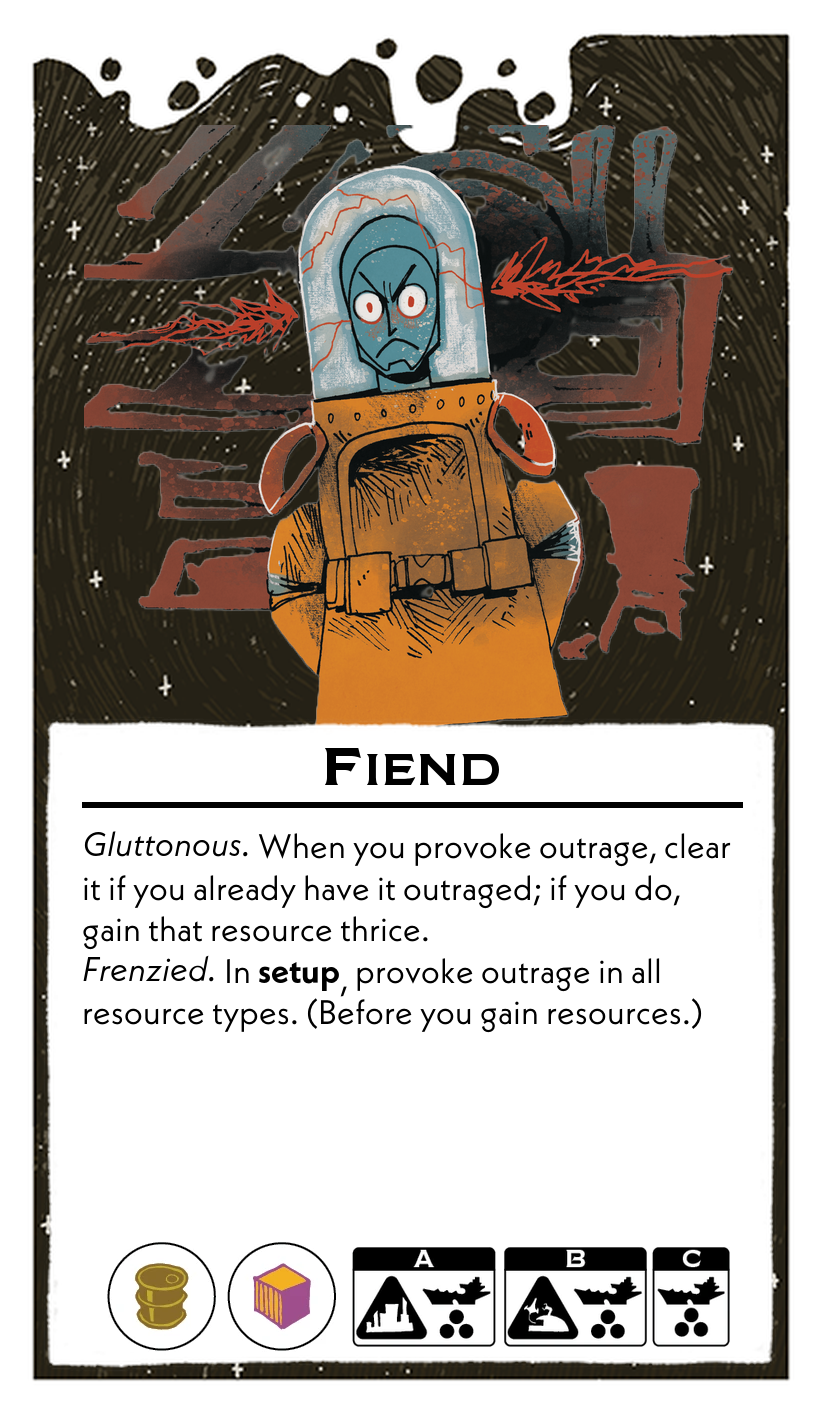
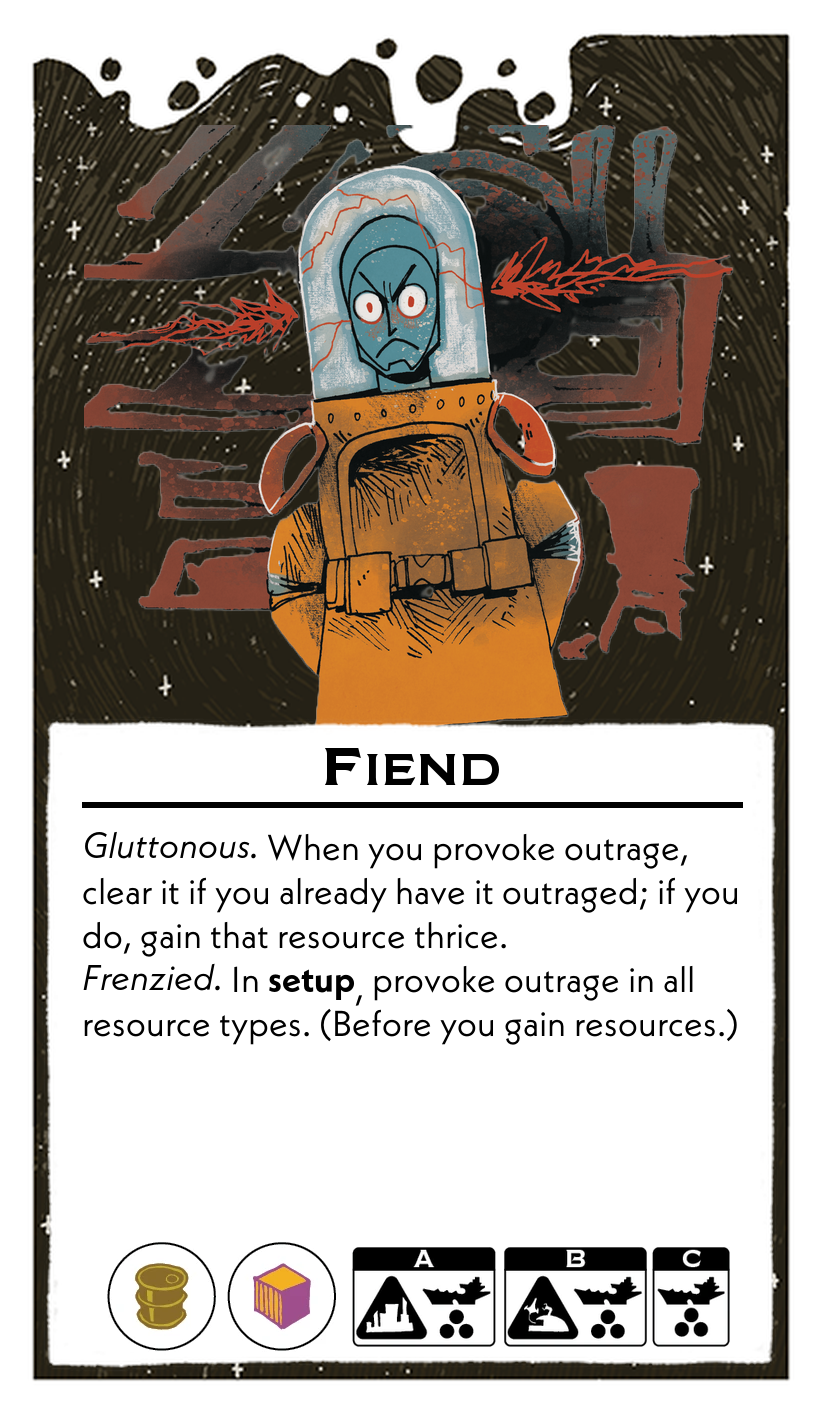
simplifiy leaders

Changed region(s): [[0.0912, 0.5912, 0.9124, 0.7468]]

diff --git a/scripts/leadersFormatted.py b/scripts/leadersFormatted.py
@@ -183,7 +183,7 @@ leaders = [
             "B": {"ships": 3, "building": "city"},
             "C": {"ships": 2, "building": "None"}
         },
-        "body_font_size": 16
+        "body_font_size": 18
     },
     # Manipulator
     {
@@ -256,7 +256,7 @@ leaders = [
     {
         "name": "Chosen",
         "abilities": (
-            "*Hallowed.* In **setup**, choose a ship you place to be the chosen ship. When anyone destroys it, they place it fresh in any system. Once per turn, after it **moves**, it may **battle** by itself. In **battle**, the die it rolls has the following effects: Skirmish: double damage; Assault: self hit gives 1 key, intercept gives 2 keys; Raid: each key repairs 1 attacking Loyal ship after the battle.\n"
+            "*Hallowed.* In **setup**, choose a ship you place to be the chosen ship. When anyone destroys it, they place it fresh in any system. Once per turn, after it **moves**, it may battle by itself. In battle, the die it rolls has its result count twice.\n"
             "*Forsaken.* If you have not attacked with the chosen ship this chapter, you cannot **secure**  or **declare** **an** **ambition**."
         ),
         "resources": ["Relic", "Fuel"],
@@ -265,7 +265,7 @@ leaders = [
             "B": {"ships": 3, "building": "starport"},
             "C": {"ships": 2, "building": "None"}
         },
-        "body_font_size": 15
+        "body_font_size": 18
     },
     # Sage
     {
@@ -655,7 +655,7 @@ leaders = [
             "B": {"ships": 3, "building": "starport"},
             "C": {"ships": 3, "building": "None"}
         },
-        "body_font_size": 17,
+        "body_font_size": 18,
         "zoom": 1,
         "boundary_shift": 0.35
     },

diff --git a/README.md b/README.md
@@ -99,16 +99,16 @@ If the exported PNG looks a little blurry when you zoom in, that usually means t
 
 - **All cards (one-off from the terminal)**: Pass flags to the batch scripts. If you don’t pass a flag, the script uses the existing per-card setting or the built-in default.
 
-    Generate all leaders at 3×:
+    Generate all leaders at 2×:
 
     ```bash
-    python scripts/batchLeaderCards.py --render-scale 3
+    python scripts/batchLeaderCards.py --render-scale 2
     ```
 
-    Generate just one leader at 4× and allow art upscaling:
+    Generate just one leader at 2× and allow art upscaling:
 
     ```bash
-    python scripts/batchLeaderCards.py --render-scale 4 --allow-upscale Kaiju
+    python scripts/batchLeaderCards.py --render-scale 2 --allow-upscale Kaiju
     ```
 
     Generate lore cards at 3×:
